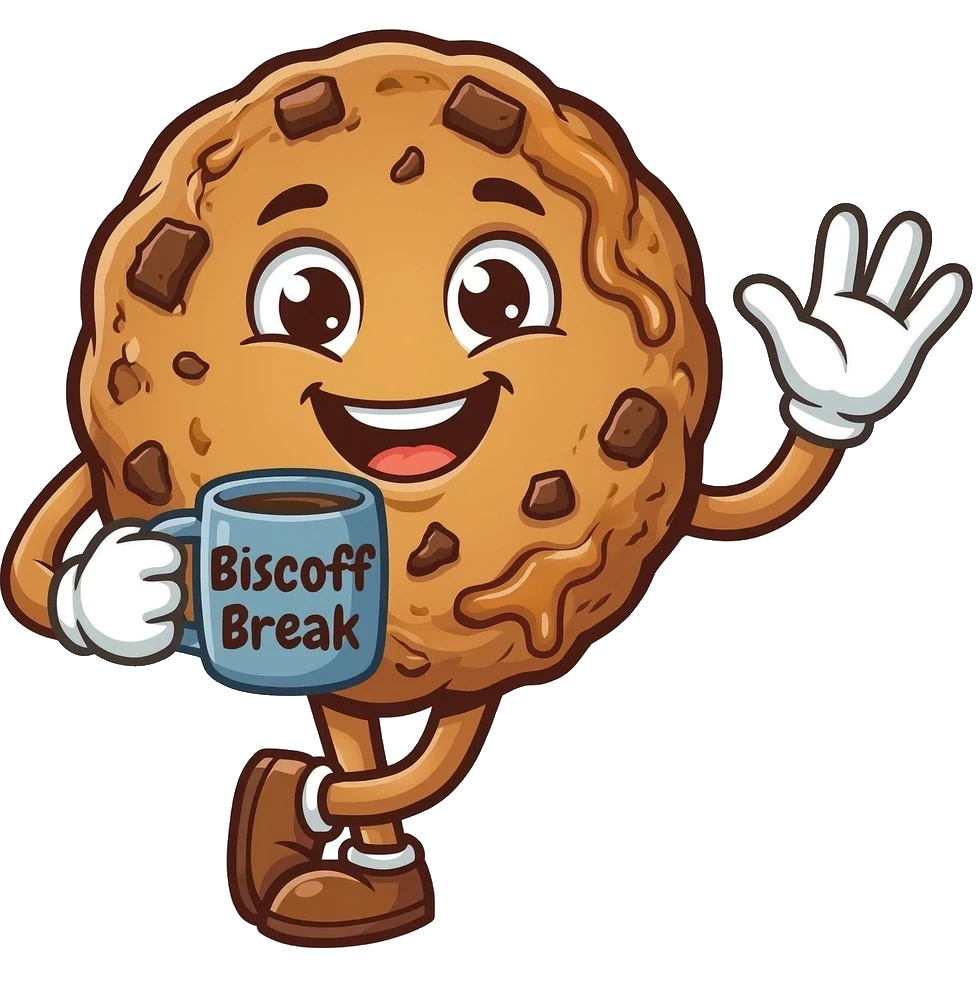
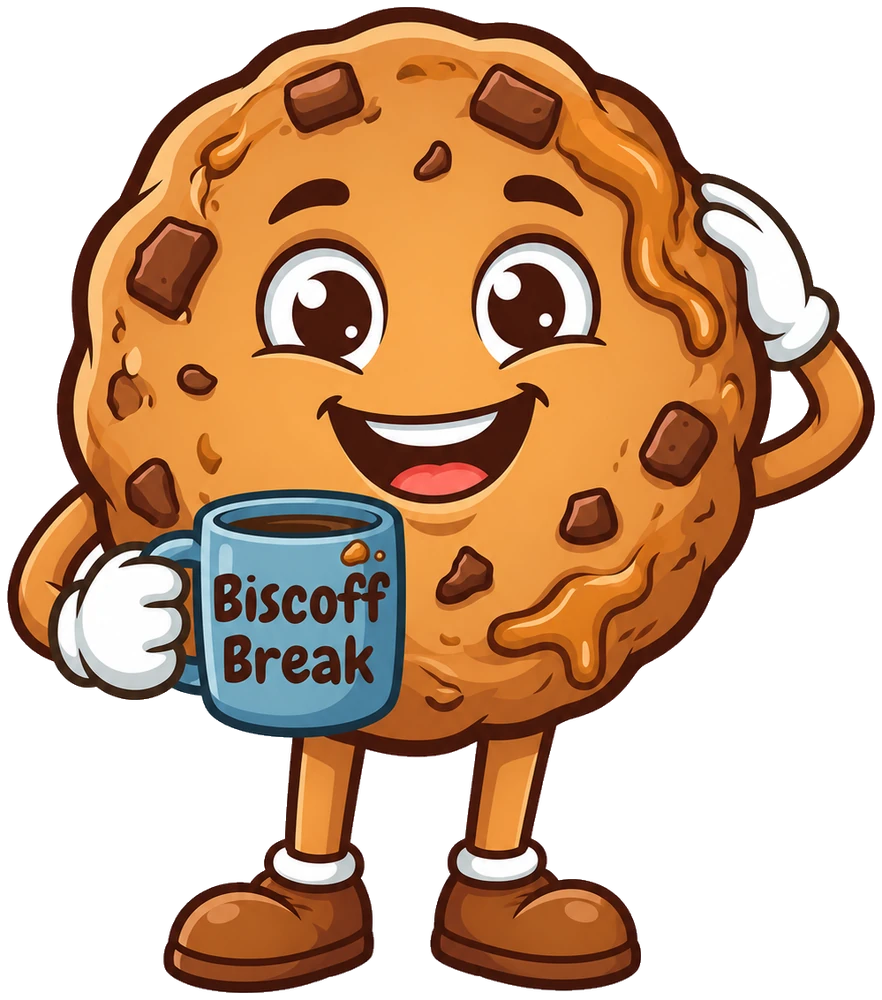
Rename to Gold Standard; new Biscoff Break picture and draft text
Biscoff Break is now the adorable, chaotic one: new artwork with the
background cut out, and a draft description to match.

diff --git a/js/katalog.js b/js/katalog.js
@@ -72,9 +72,9 @@ window.DARLINGS_SHOP = {
 window.DARLINGS_CATALOGUE = [
   {
     id: "golden-standard",
-    name: "The Golden Standard",
+    name: "Gold Standard",
     image: "images/golden-standard.webp",
-    imageAlt: "The Golden Standard: ein lächelnder Chocolate-Chip-Cookie mit einer blauen Rosette, auf der eine 1 steht.",
+    imageAlt: "Gold Standard: ein lächelnder Chocolate-Chip-Cookie mit einer blauen Rosette, auf der eine 1 steht.",
     description: "Er sitzt in der ersten Reihe und hat das Zusatzblatt längst gelöst. Brauchst du einen Stift, fragt er freundlich: «Blau oder schwarz?» Er hat beide dabei. Und das Ärgerliche: Trotzdem ist er der Liebling von allen.",
     draft: false,
     variety: "Classic Chocolate Chip",
@@ -90,8 +90,8 @@ window.DARLINGS_CATALOGUE = [
     id: "biscoff-break",
     name: "Biscoff Break",
     image: "images/biscoff-break.webp",
-    imageAlt: "Biscoff Break: ein fröhlicher Cookie, der winkt und eine blaue Tasse in der Hand hält.",
-    description: "Alle rennen, nur er nicht. Während die anderen durch den Gang hetzen, nimmt er einen Schluck aus seiner Tasse und sagt: «Ich komme auch an. Nur gemütlicher.» Und wirklich: Er wird immer fertig und hat dabei am meisten Spass.",
+    imageAlt: "Biscoff Break: ein fröhlicher Cookie, der sich am Kopf kratzt und eine übervolle blaue Tasse in der Hand hält.",
+    description: "Er meint es immer gut, nur läuft selten etwas nach Plan. Der Kaffee schwappt über, die Krümel liegen überall, und seinen Stundenplan sucht er seit Montag. Dann kratzt er sich am Kopf und lacht: «Ups. Wo war ich gerade?» Böse sein kann ihm trotzdem niemand.",
     draft: true,
     variety: "Biscoff",
     price: null,
